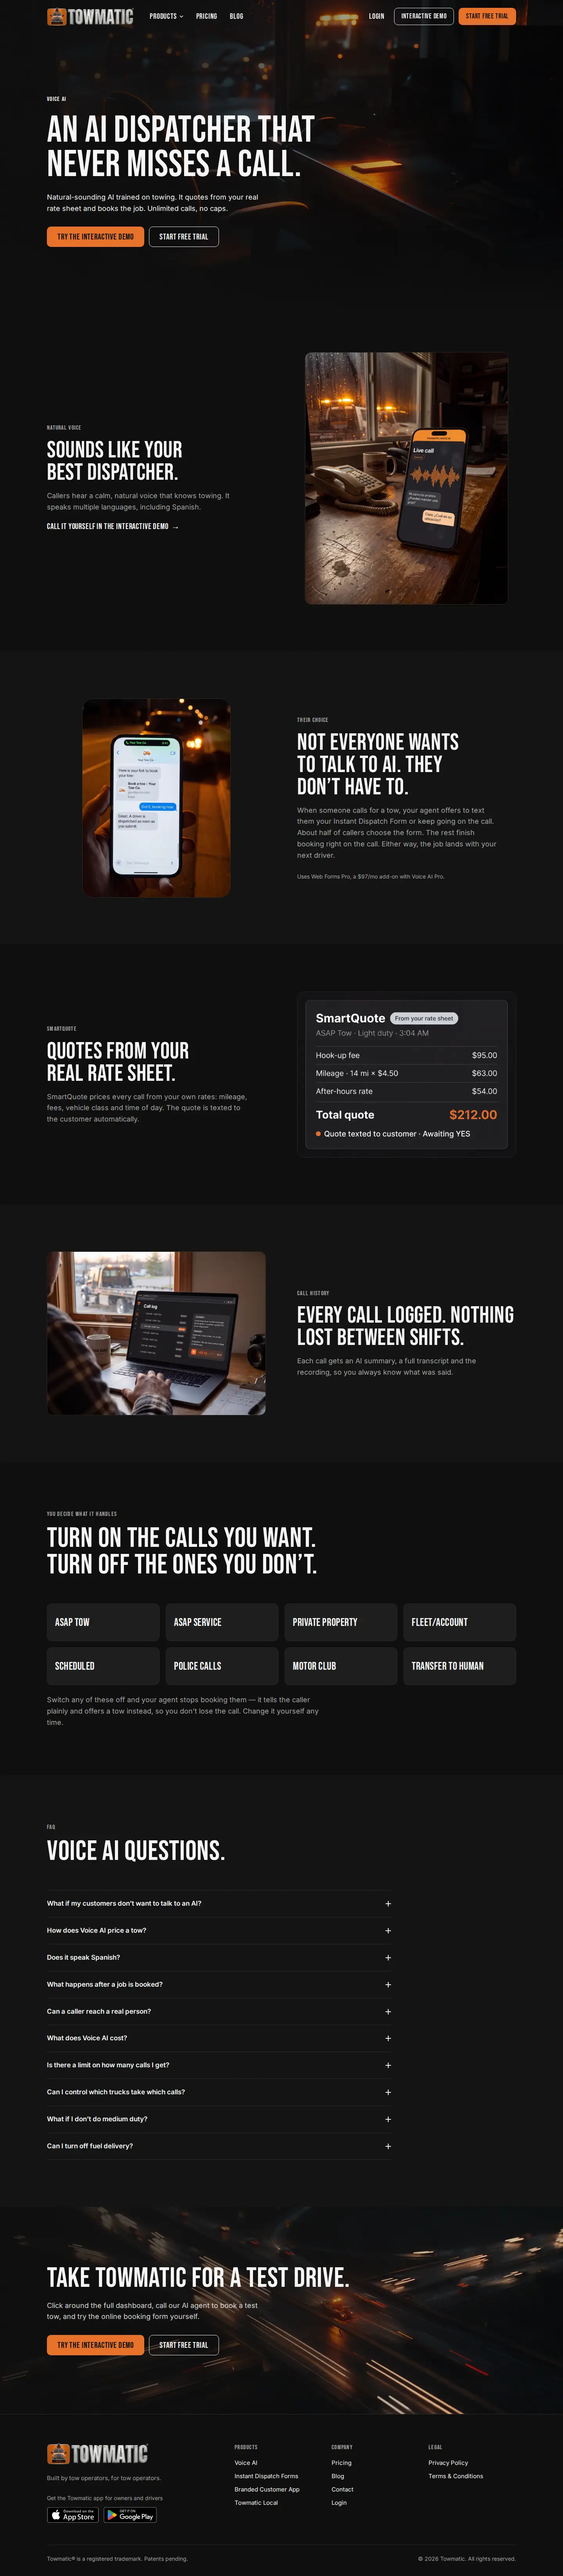
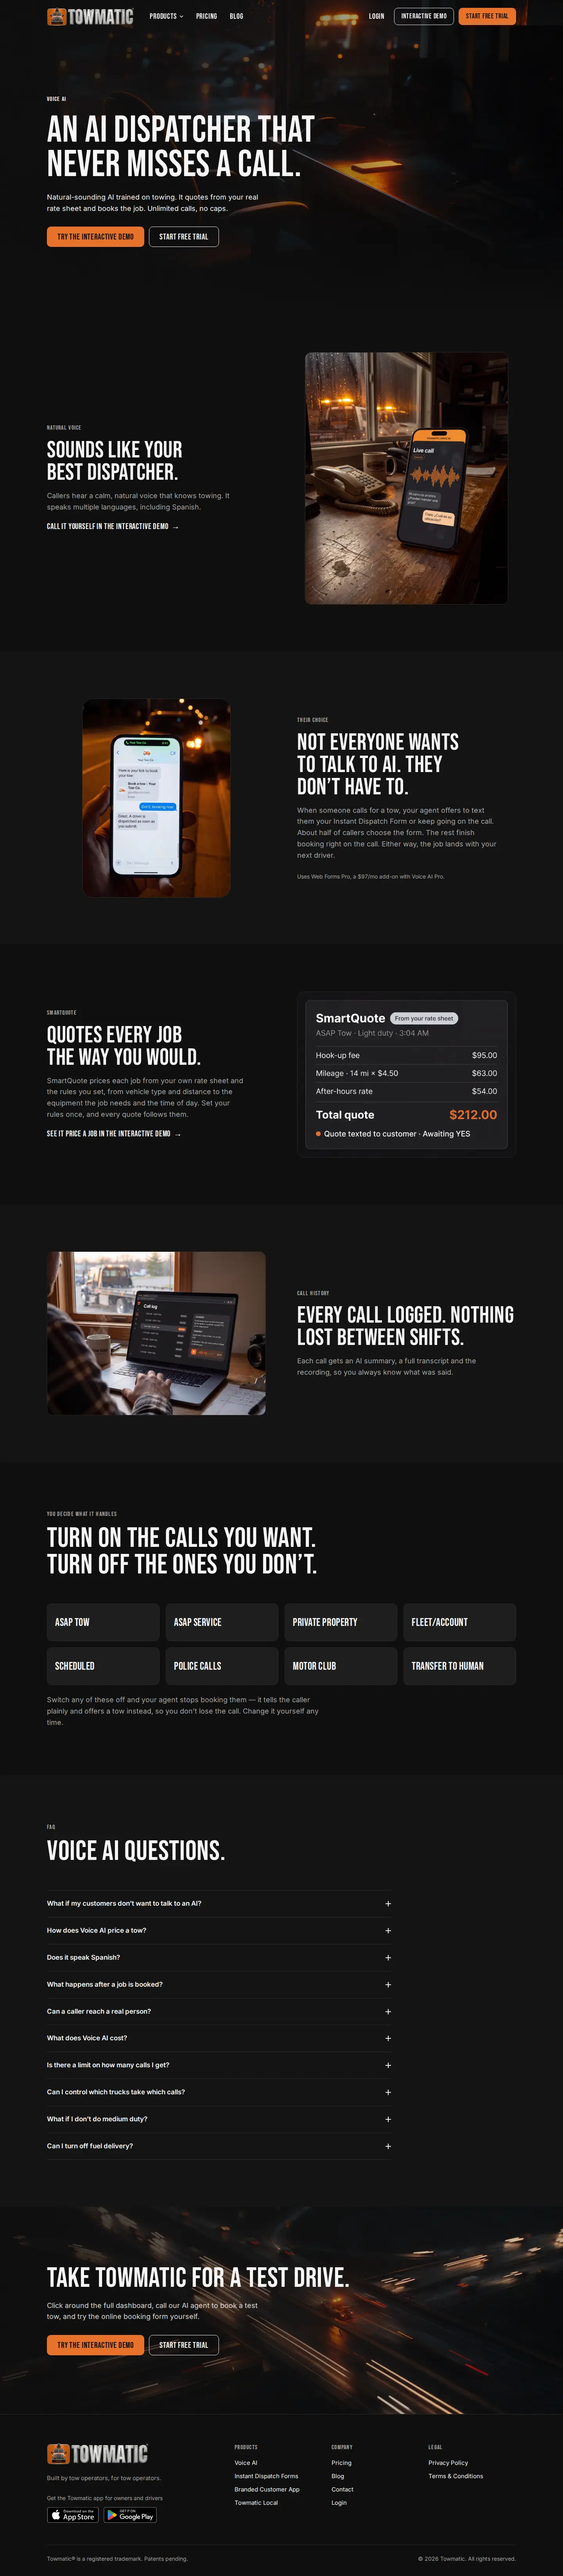
SmartQuote copy: hint at the full rule set by category, not specifics
Claude-Session: https://claude.ai/code/session_01QozjXnkBDgD25Ken8NMvP1

Changed region(s): [[0.0625, 0.3737, 0.4062, 0.436]]

diff --git a/website-no-voice/web-forms.html b/website-no-voice/web-forms.html
@@ -37,7 +37,7 @@
       "name": "How does the customer get a quote?",
       "acceptedAnswer": {
         "@type": "Answer",
-        "text": "SmartQuote prices the job from your real rate sheet, and the quote is texted to the customer automatically. Your driver is dispatched only after the customer replies YES. Customers who’d rather skip the quote can use the book-now version of the ASAP Tow, ASAP Service or Scheduled form, which dispatches right away."
+        "text": "SmartQuote prices the job from your own rate sheet and the rules you set, from vehicle type and distance to the equipment the job needs and the time of day. The quote is texted to the customer automatically. Your driver is dispatched only after the customer replies YES. Customers who’d rather skip the quote can use the book-now version of the ASAP Tow, ASAP Service or Scheduled form, which dispatches right away."
       }
     },
     {
@@ -219,7 +219,7 @@
       <div class="feature__copy reveal">
         <p class="eyebrow">Instant quotes</p>
         <h2 class="feature__title" id="f1-title">Quoted by text. Dispatched on YES.</h2>
-        <p class="feature__line">The quote is priced from your rate sheet and texted to the customer automatically. Your driver is dispatched only after the customer replies YES. Customers who just want a truck on the way can skip the quote and book now.</p>
+        <p class="feature__line">The quote is priced from your rate sheet and the rules you set, from vehicle type and distance to the equipment the job needs and the time of day, then texted to the customer automatically. Your driver is dispatched only after the customer replies YES. Customers who just want a truck on the way can skip the quote and book now.</p>
       </div>
       <div class="feature__visual reveal">
         <img class="shot shot--phone" src="images/wf-quote.webp" alt="Text message thread: Your Tow Co. texts a $212 tow quote, the customer replies YES, and the driver is confirmed on the way" width="1000" height="1010" loading="lazy" decoding="async">
@@ -373,7 +373,7 @@
         </details>
         <details class="faq__item">
           <summary>How does the customer get a quote?</summary>
-          <p>SmartQuote prices the job from your real rate sheet, and the quote is texted to the customer automatically. Your driver is dispatched only after the customer replies YES. Customers who’d rather skip the quote can use the book-now version of the ASAP Tow, ASAP Service or Scheduled form, which dispatches right away.</p>
+          <p>SmartQuote prices the job from your own rate sheet and the rules you set, from vehicle type and distance to the equipment the job needs and the time of day. The quote is texted to the customer automatically. Your driver is dispatched only after the customer replies YES. Customers who’d rather skip the quote can use the book-now version of the ASAP Tow, ASAP Service or Scheduled form, which dispatches right away.</p>
         </details>
         <details class="faq__item">
           <summary>How does SmartLocate work?</summary>

diff --git a/website/web-forms.html b/website/web-forms.html
@@ -37,7 +37,7 @@
       "name": "How does the customer get a quote?",
       "acceptedAnswer": {
         "@type": "Answer",
-        "text": "SmartQuote prices the job from your real rate sheet, and the quote is texted to the customer automatically. Your driver is dispatched only after the customer replies YES. Customers who’d rather skip the quote can use the book-now version of the ASAP Tow, ASAP Service or Scheduled form, which dispatches right away."
+        "text": "SmartQuote prices the job from your own rate sheet and the rules you set, from vehicle type and distance to the equipment the job needs and the time of day. The quote is texted to the customer automatically. Your driver is dispatched only after the customer replies YES. Customers who’d rather skip the quote can use the book-now version of the ASAP Tow, ASAP Service or Scheduled form, which dispatches right away."
       }
     },
     {
@@ -220,7 +220,7 @@
       <div class="feature__copy reveal">
         <p class="eyebrow">Instant quotes</p>
         <h2 class="feature__title" id="f1-title">Quoted by text. Dispatched on YES.</h2>
-        <p class="feature__line">The quote is priced from your rate sheet and texted to the customer automatically. Your driver is dispatched only after the customer replies YES. Customers who just want a truck on the way can skip the quote and book now.</p>
+        <p class="feature__line">The quote is priced from your rate sheet and the rules you set, from vehicle type and distance to the equipment the job needs and the time of day, then texted to the customer automatically. Your driver is dispatched only after the customer replies YES. Customers who just want a truck on the way can skip the quote and book now.</p>
       </div>
       <div class="feature__visual reveal">
         <img class="shot shot--phone" src="images/wf-quote.webp" alt="Text message thread: Your Tow Co. texts a $212 tow quote, the customer replies YES, and the driver is confirmed on the way" width="1000" height="1010" loading="lazy" decoding="async">
@@ -321,7 +321,7 @@
         </details>
         <details class="faq__item">
           <summary>How does the customer get a quote?</summary>
-          <p>SmartQuote prices the job from your real rate sheet, and the quote is texted to the customer automatically. Your driver is dispatched only after the customer replies YES. Customers who’d rather skip the quote can use the book-now version of the ASAP Tow, ASAP Service or Scheduled form, which dispatches right away.</p>
+          <p>SmartQuote prices the job from your own rate sheet and the rules you set, from vehicle type and distance to the equipment the job needs and the time of day. The quote is texted to the customer automatically. Your driver is dispatched only after the customer replies YES. Customers who’d rather skip the quote can use the book-now version of the ASAP Tow, ASAP Service or Scheduled form, which dispatches right away.</p>
         </details>
         <details class="faq__item">
           <summary>How does SmartLocate work?</summary>

diff --git a/website/ai-voice-agent-tow-dispatch.html b/website/ai-voice-agent-tow-dispatch.html
@@ -37,7 +37,7 @@
       "name": "How does Voice AI price a tow?",
       "acceptedAnswer": {
         "@type": "Answer",
-        "text": "SmartQuote prices each call from your real rate sheet: mileage, fees, vehicle class and time of day. The quote is texted to the customer automatically. Your driver gets nothing until the customer replies YES."
+        "text": "SmartQuote prices each call from your own rate sheet and the rules you set, from vehicle type and distance to the equipment the job needs and the time of day. The quote is texted to the customer automatically. Your driver gets nothing until the customer replies YES."
       }
     },
     {
@@ -265,8 +265,9 @@
     <div class="container feature__grid">
       <div class="feature__copy reveal">
         <p class="eyebrow">SmartQuote</p>
-        <h2 class="feature__title" id="f2-title">Quotes from your real rate sheet.</h2>
-        <p class="feature__line">SmartQuote prices every call from your own rates: mileage, fees, vehicle class and time of day. The quote is texted to the customer automatically.</p>
+        <h2 class="feature__title" id="f2-title">Quotes every job the way you would.</h2>
+        <p class="feature__line">SmartQuote prices each job from your own rate sheet and the rules you set, from vehicle type and distance to the equipment the job needs and the time of day. Set your rules once, and every quote follows them.</p>
+        <a class="link-more" href="/demo">See it price a job in the interactive demo <span aria-hidden="true">→</span></a>
       </div>
       <div class="feature__visual reveal">
         <img class="shot" src="images/va-quote.webp" alt="SmartQuote breakdown from the rate sheet: hook-up fee $95, mileage 14 miles at $4.50 for $63, after-hours rate $54, total quote $212, texted to the customer and awaiting YES" width="1400" height="1060" loading="lazy" decoding="async">
@@ -324,7 +325,7 @@
         </details>
         <details class="faq__item">
           <summary>How does Voice AI price a tow?</summary>
-          <p>SmartQuote prices each call from your real rate sheet: mileage, fees, vehicle class and time of day. The quote is texted to the customer automatically. Your driver gets nothing until the customer replies YES.</p>
+          <p>SmartQuote prices each call from your own rate sheet and the rules you set, from vehicle type and distance to the equipment the job needs and the time of day. The quote is texted to the customer automatically. Your driver gets nothing until the customer replies YES.</p>
         </details>
         <details class="faq__item">
           <summary>Does it speak Spanish?</summary>

diff --git a/website/HANDOFF.md b/website/HANDOFF.md
@@ -286,6 +286,9 @@ These are intentional. Build them as shown in the prototype.
 
 - **No "live the same day" claim** for Instant Dispatch Forms anywhere (removed at the owner's request).
 - **Start Free Trial** buttons go to `/signup`.
+- **SmartQuote copy stays at the category level** (owner's choice, so competitors don't get a feature list): "your own
+  rate sheet and the rules you set, from vehicle type and distance to the equipment the job needs and the time of
+  day." Don't list specific rules (skates, dollies, mileage from the lot, etc.); the interactive demo shows them.
 - **"Not everyone wants to talk to AI" (caller's choice):** when someone calls for a tow, the Voice AI agent asks "I
   can text you an instant dispatch form, or we can continue here. What would you like to do?" Owner data: about half
   of callers choose the form and the rest finish booking on the call. Shown as a "Their choice" section on the Voice AI

diff --git a/website-no-voice/HANDOFF.md b/website-no-voice/HANDOFF.md
@@ -292,6 +292,9 @@ These are intentional. Build them as shown in the prototype.
 
 - **No "live the same day" claim** for Instant Dispatch Forms anywhere (removed at the owner's request).
 - **Start Free Trial** buttons go to `/signup`.
+- **SmartQuote copy stays at the category level** (owner's choice, so competitors don't get a feature list): "your own
+  rate sheet and the rules you set, from vehicle type and distance to the equipment the job needs and the time of
+  day." Don't list specific rules (skates, dollies, mileage from the lot, etc.); the interactive demo shows them.
 - **Dispatch rules by truck type:** owners set each truck to take light, medium and heavy duty jobs **Always, Only
   If Needed, or Never** (use these exact setting names). Shown in a homepage FAQ and a Web Forms FAQ ("Can I control
   which trucks get which jobs?"), the homepage SmartDispatch tab, the Web Forms dispatch section and the Pricing
